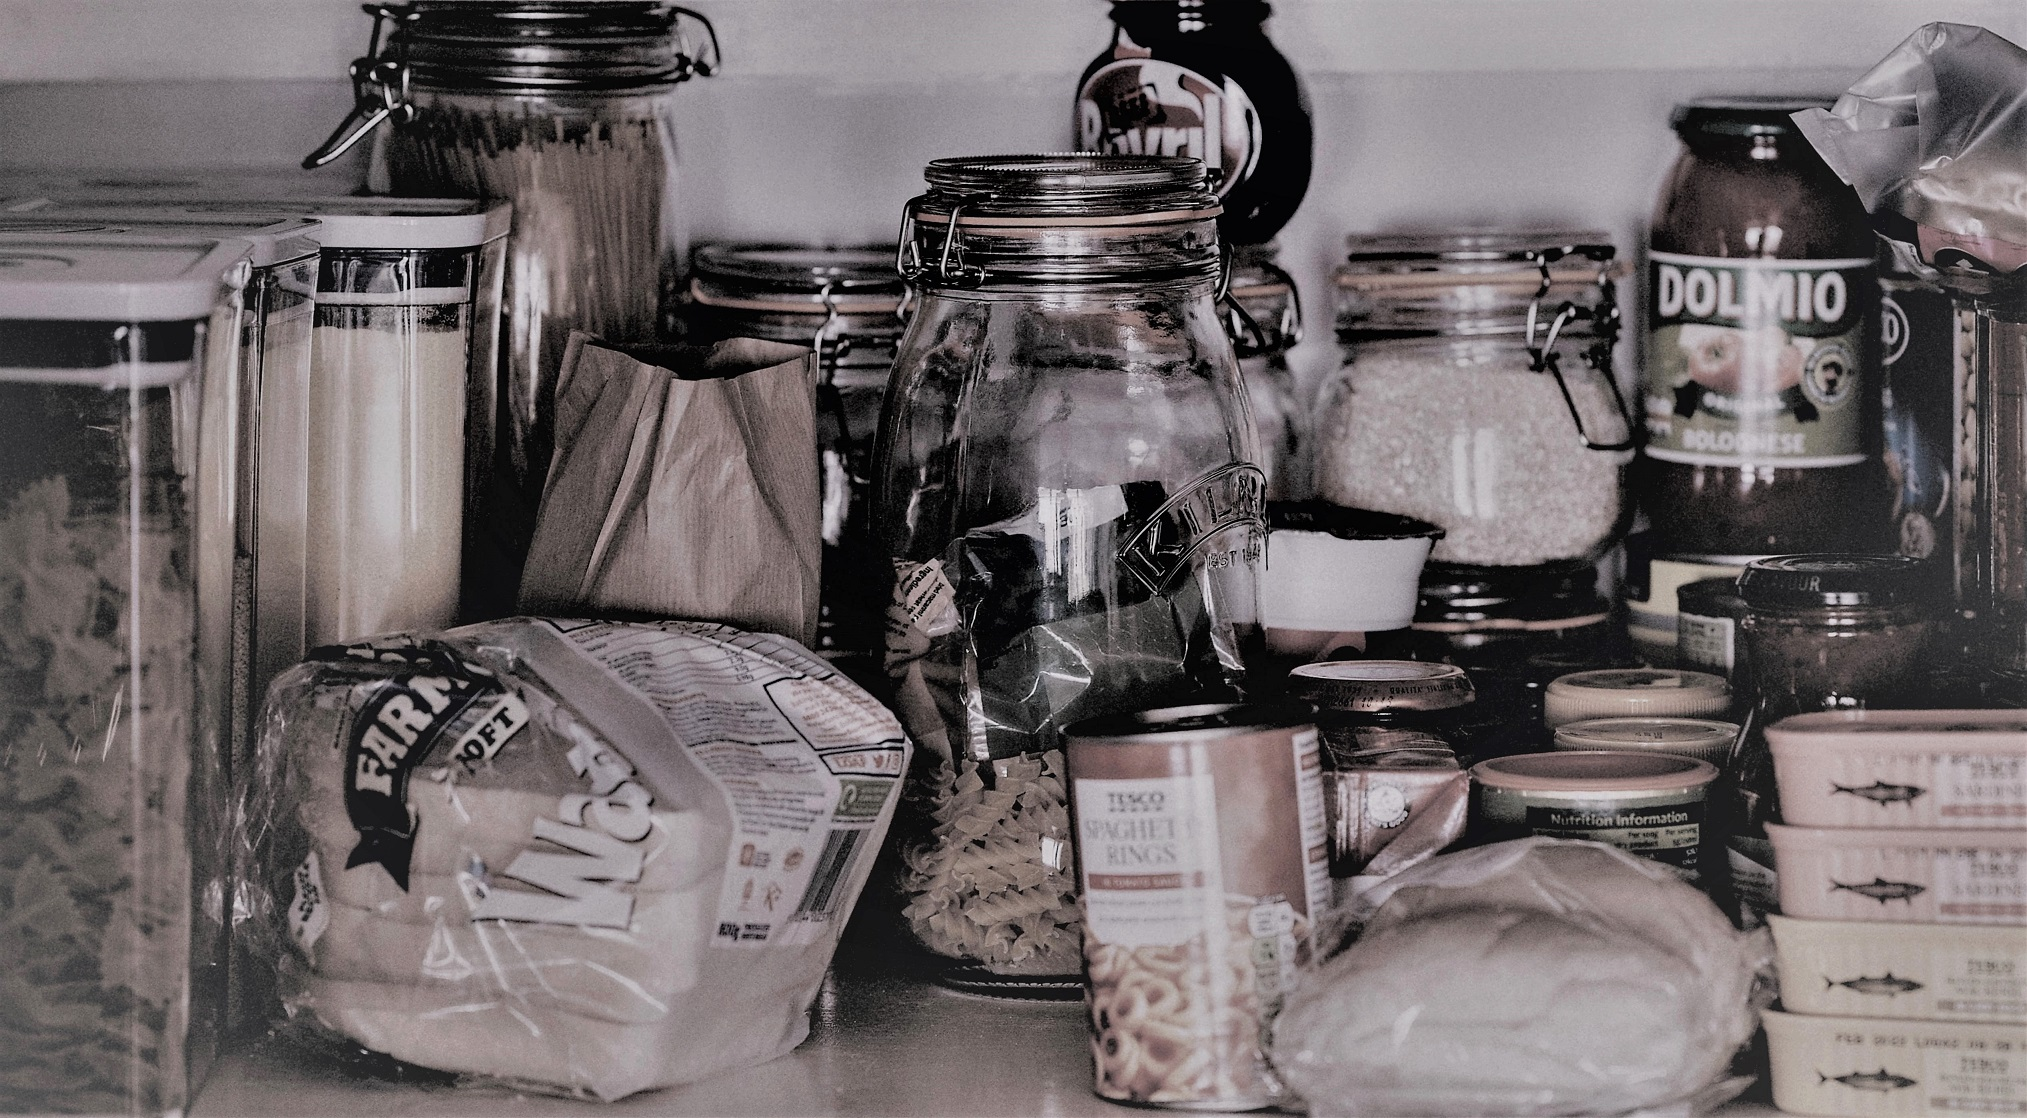
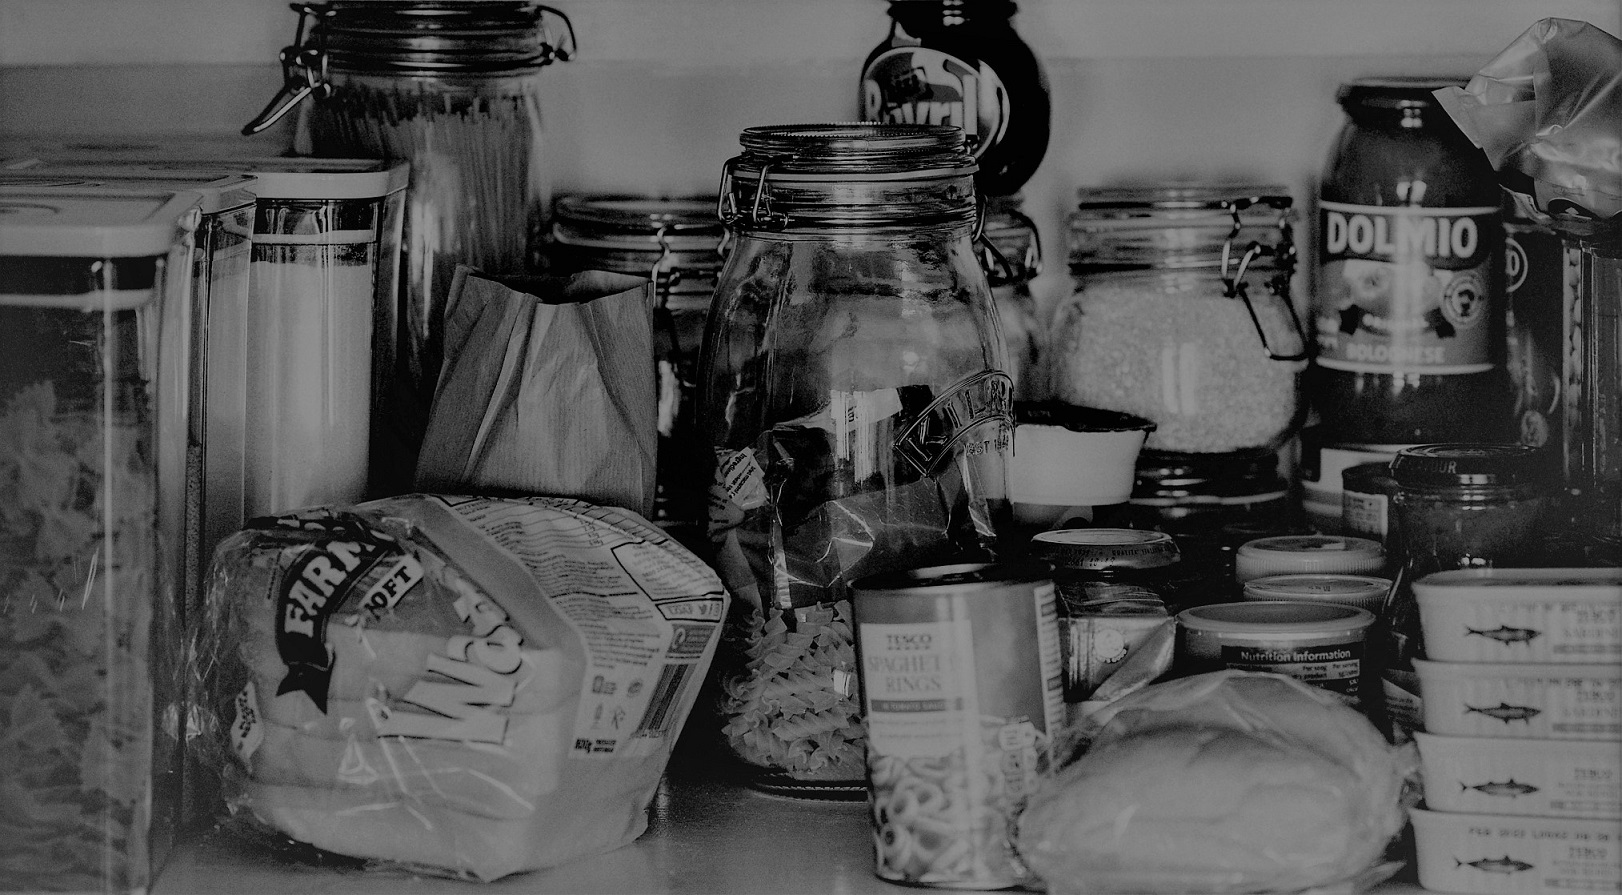
Updated colour scheme

diff --git a/webapp/src/login.js b/webapp/src/login.js
@@ -13,6 +13,7 @@ class Login extends React.Component {
     this.state = {
       //apihost: 'http://127.0.0.1:88',
       apihost: 'https://inven3s.xyz',
+      loading: false,
       email: '',
       password: '',
       interestemail: '',
@@ -36,7 +37,7 @@ class Login extends React.Component {
   }
 
   registerinterest(event){
-    console.log(this.state.interestemail);
+    this.setState({ loading: true });
 
     axios.post(this.state.apihost + '/user/register/interest', 
       {
@@ -51,11 +52,13 @@ class Login extends React.Component {
       }
     )
     .then(response => {
+      this.setState({ loading: false });
       if(response.status === 200){
         this.setState({ interestmessage: response.data[0]['message'] });
       }
     })
     .catch(error => {
+      this.setState({ loading: false });
       const errresponse = error.response;
       if(errresponse){
         this.setState({ interestmessage: errresponse.data[0]['message'] });
@@ -71,9 +74,6 @@ class Login extends React.Component {
       return (<Message className="fullwidth" size="tiny">
           {this.state.interestmessage}</Message>
         );
-    }
-    else{
-      return '';
     }
   }
   authenticate(event){
@@ -225,10 +225,10 @@ class Login extends React.Component {
           <Grid celled='internally' columns='equal' stackable>
             <Grid.Column className="fontdark">
               <Header as='h3' style={{ fontSize: '1.8em' }} className="fontdark">
-                Want to find out more?
+                Ready for the next step?
               </Header>
               <p style={{ fontSize: '1.1em' }} className="fontdark">
-                Still have questions or ready to get started? Register your interest now.
+                Want to find out more or interested in early access to the web app? Let us know and we'll get back to you
               </p>
             </Grid.Column>
             <Grid.Column verticalAlign="middle">
@@ -239,7 +239,9 @@ class Login extends React.Component {
                 </Grid.Column>
                 <Grid.Row columns={2}>
                   <Grid.Column width={5}>
-                    <Button color="grey" className="fullwidth" onClick={this.registerinterest.bind(this)}>
+                    <Button color="grey" className="fullwidth"
+                      loading={this.state.loading || false}
+                      onClick={this.registerinterest.bind(this)}>
                       Register now</Button>
                   </Grid.Column>
                   <Grid.Column width={11}>
@@ -253,10 +255,10 @@ class Login extends React.Component {
         <div className={isMobile ? "navfooter login mobile" : "navfooter login"}>
           <List horizontal verticalAlign="middle">
             <List.Item className="footheader">
-              <Image src='/logo.png' size='mini' inline verticalAlign="middle" /> Copyright © 2020 Inven3s. All Rights Reserved.
+              <Image src='/logowhite.png' size='mini' inline verticalAlign="middle" /> Copyright © 2020 Inven3s. All Rights Reserved.
             </List.Item>
             <List.Item className="footheader">
-              <a href="https://www.instagram.com/inven3s/" target="_blank" rel="noopener noreferrer"><Icon name="instagram" size="large" /></a>
+              <a href="https://www.instagram.com/inven3s/" target="_blank" rel="noopener noreferrer" className="footheader"><Icon name="instagram" size="large" /></a>
             </List.Item>
           </List>
         </div>

diff --git a/webapp/src/index.css b/webapp/src/index.css
@@ -29,8 +29,8 @@ body {
 
 .bodyrest2.login{
   background-color: #767676 !important;
-  padding-top: 10em !important;
-  padding-bottom: 10em !important;
+  padding-top: 8em !important;
+  padding-bottom: 8em !important;
   padding-left: 12em !important;
   padding-right: 12em !important;
 }
@@ -45,8 +45,8 @@ body {
 
 .bodyrest1.login{
   background-color: #ffffff !important;
-  padding-top: 10em !important;
-  padding-bottom: 10em !important;
+  padding-top: 8em !important;
+  padding-bottom: 8em !important;
   padding-left: 12em !important;
   padding-right: 12em !important;
 }
@@ -85,8 +85,8 @@ body {
   -o-background-size: cover !important;
   background-size: cover !important;
   background-color: #FFFFFF !important;
-  padding-top: 10em !important;
-  padding-bottom: 10em !important;
+  padding-top: 8em !important;
+  padding-bottom: 8em !important;
   padding-left: 12em !important;
   padding-right: 12em !important;
 }

diff --git a/webapp/src/home.js b/webapp/src/home.js
@@ -159,8 +159,8 @@ class Home extends React.Component {
     else{
       return (
             <Grid.Column textAlign="center">
-              <Message negative size='tiny'
-                header="Problem generating insights"
+              <Message size='tiny'
+                header="Generating insights for you"
                 content="Please try again later if it doesn't load"
               />
             </Grid.Column>

diff --git a/webapp/src/pan3.js b/webapp/src/pan3.js
@@ -541,7 +541,7 @@ class Pan3 extends React.Component {
   generategriditems(){
     if(!this.state.inventoryfetched){
       return (<Card raised>
-                <Message negative size='tiny'
+                <Message size='tiny'
                   header="Fetching your inventory"
                   content="Please try again later if it doesn't load"
                 />
